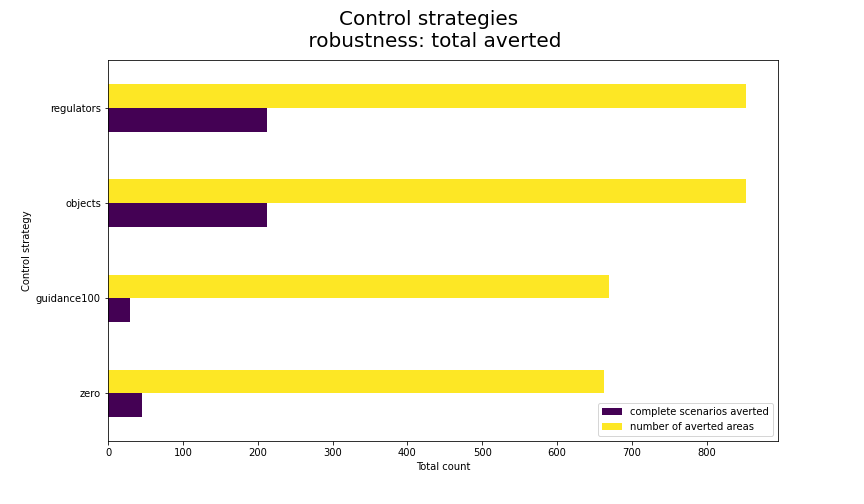
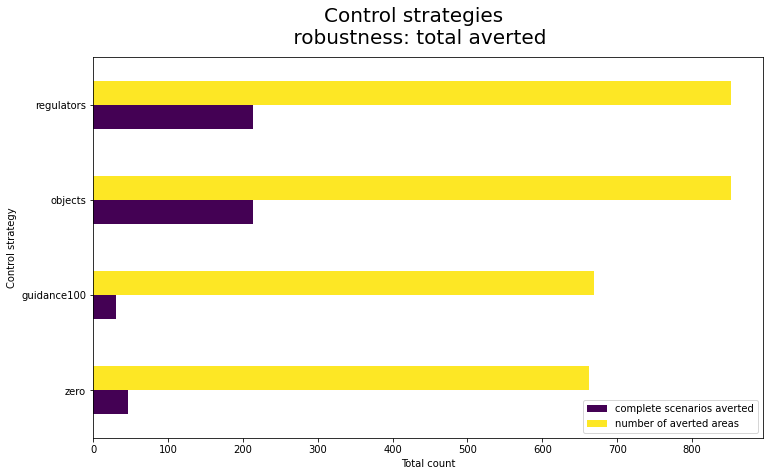
updated plots

diff --git a/analysis/control_exploration_results.py b/analysis/control_exploration_results.py
@@ -1,6 +1,7 @@
-import pandas as pd
 import matplotlib.pyplot as plt
+import pandas as pd
 from ema_workbench import load_results
+
 from robustness import calculate_robustness_averted, calculate_robustness_mean_variance
 
 if __name__ == "__main__":
@@ -63,34 +64,80 @@ if __name__ == "__main__":
     raw_outcomes_av.to_csv("../data/output/intermediate/raw_outcomes_av.csv")
 
     # plotting raw outcomes
-    fig1, ax1 = plt.subplots(figsize=(12, 7))
-    raw_outcomes_av.plot.bar(ax=ax1, colormap="viridis")
-    fig1.suptitle("Control strategies \n raw density and speed outcomes", fontsize=20)
-    ax1.set(ylabel="average outcome \n in problematic scenarios")
-    fig1.savefig("../figures/controlStrategiesRaw.png")
+    fig1, ax1 = plt.subplots(figsize=(8, 6))
+    raw_outcomes_av.loc[
+        raw_outcomes_av.index.isin(
+            [
+                "meanDensityArea1",
+                "meanDensityArea2",
+                "meanDensityArea3",
+                "meanDensityArea4",
+            ]
+        )
+    ].plot.bar(ax=ax1, colormap="viridis", rot=0)
+    fig1.suptitle("Control strategies \n raw mean density", fontsize=20)
+    ax1.set(ylabel="average density [#/m²]")
+    fig1.savefig("../figures/controlStrategiesRawMeanDensity.png", bbox_inches="tight")
+
+    fig2, ax2 = plt.subplots(figsize=(8, 6))
+    raw_outcomes_av.loc[
+        raw_outcomes_av.index.isin(
+            [
+                "maxDensityArea1",
+                "maxDensityArea2",
+                "maxDensityArea3",
+                "maxDensityArea4",
+            ]
+        )
+    ].plot.bar(ax=ax2, colormap="viridis", rot=0)
+    fig2.suptitle("Control strategies \n raw max density", fontsize=20)
+    ax2.set(ylabel="max density [#/m²]")
+    fig2.savefig("../figures/controlStrategiesRawMaxDensity.png", bbox_inches="tight")
+
+    fig3, ax3 = plt.subplots(figsize=(12, 7))
+    raw_outcomes_av.loc[raw_outcomes_av.index == "meanSpeed"].plot.barh(
+        ax=ax3, colormap="viridis"
+    )
+    fig3.suptitle("Control strategies \n mean speed", fontsize=20)
+    ax3.set(xlabel="mean speed [m/s]")
+    fig3.savefig("../figures/controlStrategiesRawMeanSpeed.png", bbox_inches="tight")
 
     # plotting robustness averted
-    fig2, ax2 = plt.subplots(figsize=(12, 7))
+    fig4, ax4 = plt.subplots(figsize=(12, 7))
     r_averted[["complete scenarios averted", "number of averted areas"]].plot.barh(
-        ax=ax2, colormap="viridis", rot=0
-    )
-    fig2.suptitle("Control strategies \n robustness: total averted", fontsize=20)
-    ax2.set(xlabel="Total count", ylabel="Control strategy")
-    fig2.savefig("../figures/controlStrategiesAverted.png")
-
-    # plotting robustness mean variance
-    fig3, ax3 = plt.subplots(figsize=(12, 7))
-    r_mean_variance[["meanSpeed"]].plot.barh(ax=ax3, colormap="viridis", rot=0)
-    fig3.suptitle("Control strategies \n robustness: mean variance", fontsize=20)
-    ax3.set(
-        xlabel="Mean variance score \n (higher is better)", ylabel="Control strategy"
-    )
-    fig3.savefig("../figures/controlStrategiesMeanVarianceSpeed.png")
-
-    fig4, ax4 = plt.subplots(figsize=(8, 10))
-    r_mean_variance.drop(columns=["meanSpeed"], axis=1).T.plot.barh(
         ax=ax4, colormap="viridis", rot=0
     )
-    fig4.suptitle("Control strategies \n robustness: mean variance", fontsize=20)
-    ax4.set(xlabel="Mean variance score \n (lower is better)")
-    fig4.savefig("../figures/controlStrategiesMeanVarianceDensity.png")
+    fig4.suptitle("Control strategies \n robustness: total averted", fontsize=20)
+    ax4.set(xlabel="Total count", ylabel="Control strategy")
+    fig4.savefig("../figures/controlStrategiesAverted.png", bbox_inches="tight")
+
+    # plotting robustness mean variance
+    fig5, ax5 = plt.subplots(figsize=(12, 7))
+    r_mean_variance[["meanSpeed"]].plot.barh(ax=ax5, colormap="viridis", rot=0)
+    fig5.suptitle("Control strategies \n robustness: mean variance", fontsize=20)
+    ax5.set(
+        xlabel="Mean variance score \n (higher is better)", ylabel="Control strategy"
+    )
+    fig5.savefig(
+        "../figures/controlStrategiesMeanVarianceSpeed.png", bbox_inches="tight"
+    )
+
+    fig6, ax6 = plt.subplots(figsize=(8, 10))
+    r_mean_variance[
+        ["meanDensityArea1", "meanDensityArea2", "meanDensityArea3", "meanDensityArea4"]
+    ].T.plot.barh(ax=ax6, colormap="viridis", rot=0)
+    fig6.suptitle("Control strategies \n robustness: mean variance", fontsize=20)
+    ax6.set(xlabel="Mean variance score \n (lower is better)")
+    fig6.savefig(
+        "../figures/controlStrategiesMeanVarianceMeanDensity.png", bbox_inches="tight"
+    )
+
+    fig7, ax7 = plt.subplots(figsize=(8, 10))
+    r_mean_variance[
+        ["maxDensityArea1", "maxDensityArea2", "maxDensityArea3", "maxDensityArea4"]
+    ].T.plot.barh(ax=ax7, colormap="viridis", rot=0)
+    fig7.suptitle("Control strategies \n robustness: mean variance", fontsize=20)
+    ax7.set(xlabel="Mean variance score \n (lower is better)")
+    fig7.savefig(
+        "../figures/controlStrategiesMeanVarianceMaxDensity.png", bbox_inches="tight"
+    )

diff --git a/analysis/sobol.py b/analysis/sobol.py
@@ -1,14 +1,14 @@
+import numpy as np
+import pandas as pd
 from ema_workbench import (
-    Samplers,
-    perform_experiments,
-    ema_logging,
     MultiprocessingEvaluator,
+    Samplers,
+    ema_logging,
+    perform_experiments,
     save_results,
 )
-import pandas as pd
-import numpy as np
-from vadere_ema_formulations import get_vadere_formulation
 
+from vadere_ema_formulations import get_vadere_formulation
 
 # enable EMA logging
 ema_logging.log_to_stderr(ema_logging.INFO)
